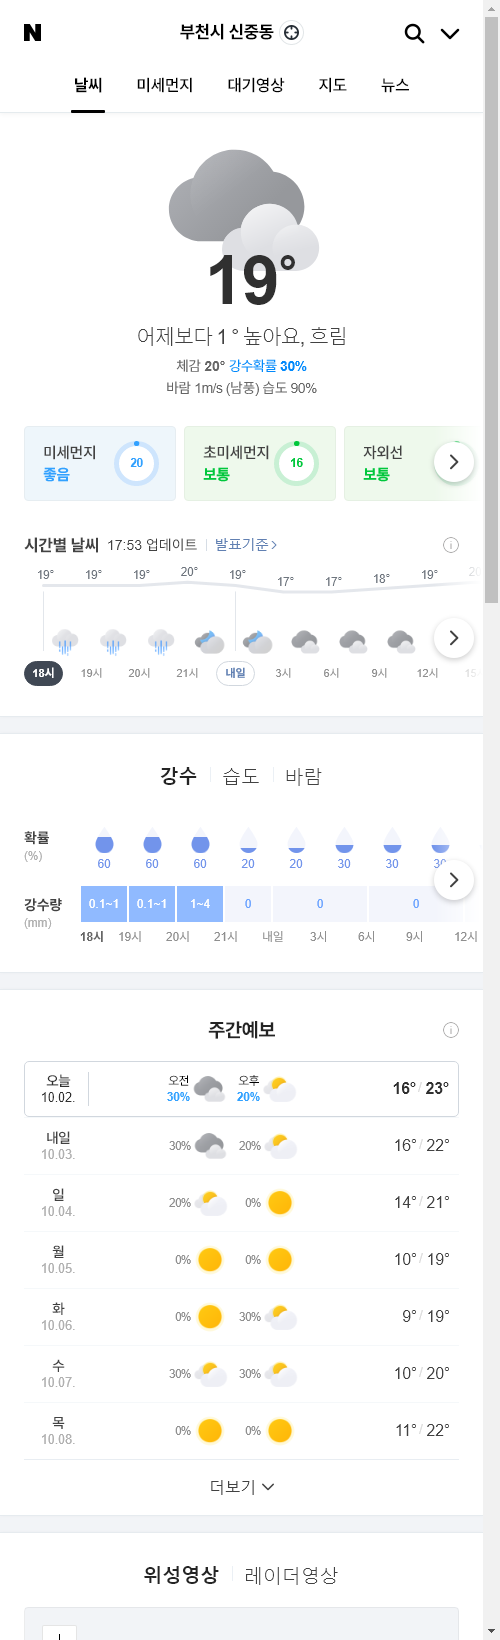
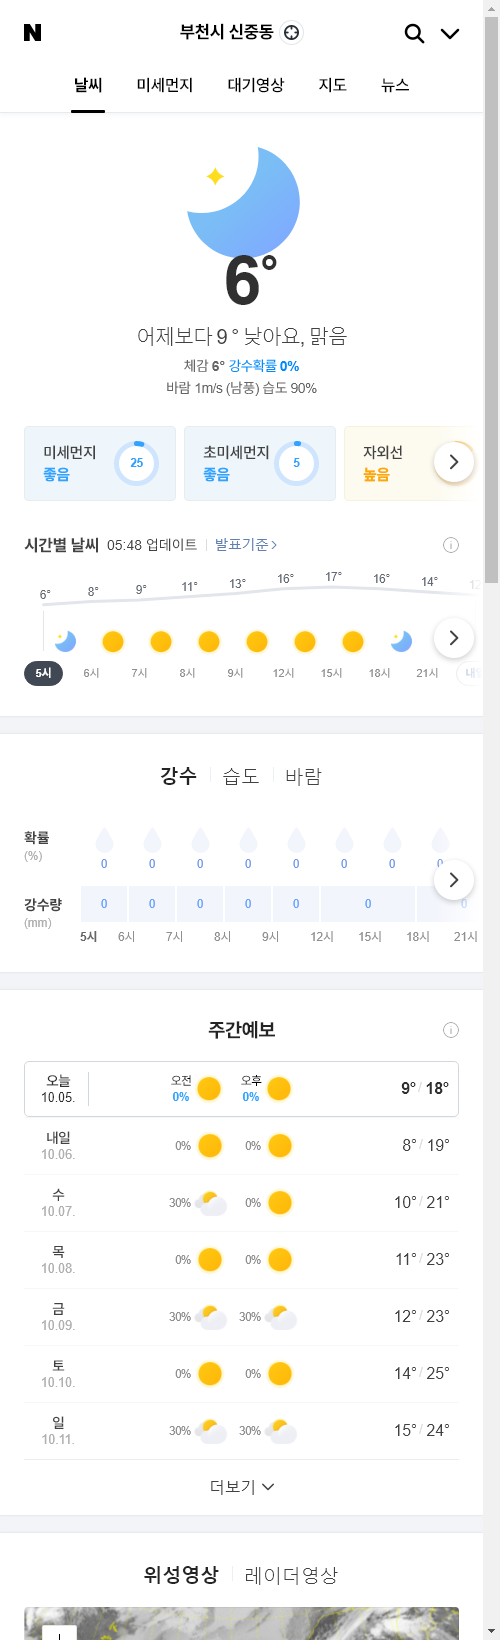
update result

diff --git a/README.md b/README.md
@@ -1,5 +1,5 @@
-##  2020-10-02 18:05:48   금요일 
-##### 날씨   -   어제보다 1 ° 높아요, 흐림
+##  2020-10-05 05:55:30   월요일 
+##### 날씨   -   어제보다 9 ° 낮아요, 맑음
 <center><img src="../img/naver_weather_week.png"></center>
 ----
 ----
@@ -13,9 +13,9 @@
 ##### 세계
 <table border="1" bordercolor="blue" align = "center" >
 <tr align = "right" > <td>Item</td><td>Point</td><td>Diff</td><td>Rate</td><td>Buy</td><td>Sell</td><td>...</td>  </tr>
-<tr align = "right" > <td>DOW</td><td>27,816.9</td><td>35.2</td><td><font size="3" color="red" >0.13%</font></td><td><font size="3" color="black">0</font></td><td><font size="3" color="black">0</font></td><td>0</td>  </tr>
-<tr align = "right" > <td>NASDAQ</td><td>11,326.51</td><td>159.0</td><td><font size="3" color="red" >1.42%</font></td><td><font size="3" color="black">0</font></td><td><font size="3" color="black">0</font></td><td>0</td>  </tr>
-<tr align = "right" > <td>S&P</td><td>3,380.8</td><td>17.8</td><td><font size="3" color="red" >0.53%</font></td><td><font size="3" color="black">0</font></td><td><font size="3" color="black">0</font></td><td>0</td>  </tr>
+<tr align = "right" > <td>DOW</td><td>27,682.81</td><td>-134.09</td><td><font size="3" color="blue" >-0.48%</font></td><td><font size="3" color="black">0</font></td><td><font size="3" color="black">0</font></td><td>0</td>  </tr>
+<tr align = "right" > <td>NASDAQ</td><td>11,075.02</td><td>-251.49</td><td><font size="3" color="blue" >-2.22%</font></td><td><font size="3" color="black">0</font></td><td><font size="3" color="black">0</font></td><td>0</td>  </tr>
+<tr align = "right" > <td>S&P</td><td>3,348.44</td><td>-32.36</td><td><font size="3" color="blue" >-0.96%</font></td><td><font size="3" color="black">0</font></td><td><font size="3" color="black">0</font></td><td>0</td>  </tr>
 <tr align = "right" > <td>SHANHAI</td><td>3,218.05</td><td>-6.31</td><td><font size="3" color="blue" >-0.2%</font></td><td><font size="3" color="black">0</font></td><td><font size="3" color="black">0</font></td><td>0</td>  </tr>
 <tr align = "right" > <td>INDIA</td><td>38,697.05</td><td>629.12</td><td><font size="3" color="red" >1.65%</font></td><td><font size="3" color="black">0</font></td><td><font size="3" color="black">0</font></td><td>0</td>  </tr>
 </table>
@@ -24,8 +24,8 @@
 <table border="1" bordercolor="blue" align = "center" >
 <tr align = "right" > <td>Item</td><td>Price</td><td>Diff</td><td>Rate</td><td>Buy</td><td>Sell</td><td>...</td>  </tr>
 <tr align = "right" > <td>USD</td><td>1,169.0</td><td>-1.0</td><td><font size="3" color="blue">-0.09%</font></td><td><font size="3" color="black">1,150</font></td><td><font size="3" color="black">0</font></td><td>0</td>  </tr>
-<tr align = "right" > <td>WTI</td><td>38.72</td><td>-1.5</td><td><font size="3" color="blue">-3.72%</font></td><td><font size="3" color="black">29.0</font></td><td><font size="3" color="black">0</font></td><td>0</td>  </tr>
-<tr align = "right" > <td>GOLD</td><td>1,908.0</td><td>20.9</td><td><font size="3" color="red">1.1%</font></td><td><font size="3" color="black">0</font></td><td><font size="3" color="black">0</font></td><td>0</td>  </tr>
+<tr align = "right" > <td>WTI</td><td>37.05</td><td>-1.67</td><td><font size="3" color="blue">-4.31%</font></td><td><font size="3" color="black">29.0</font></td><td><font size="3" color="black">0</font></td><td>0</td>  </tr>
+<tr align = "right" > <td>GOLD</td><td>1,900.0</td><td>-8.2</td><td><font size="3" color="blue">-0.42%</font></td><td><font size="3" color="black">0</font></td><td><font size="3" color="black">0</font></td><td>0</td>  </tr>
 </table>
 ----
 ##### 주가
